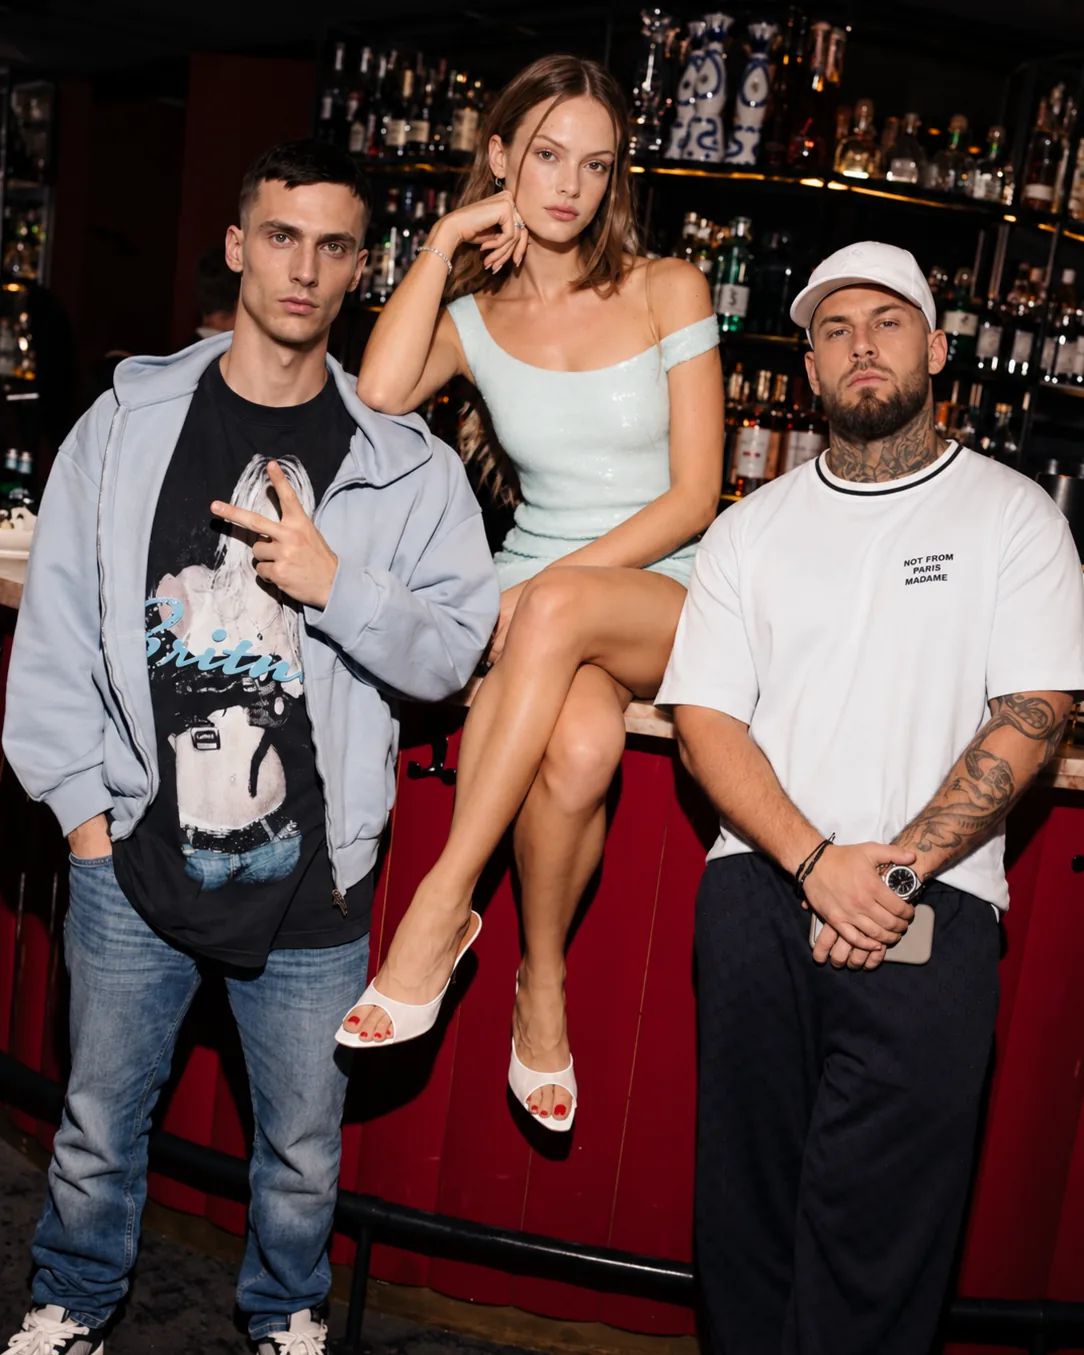
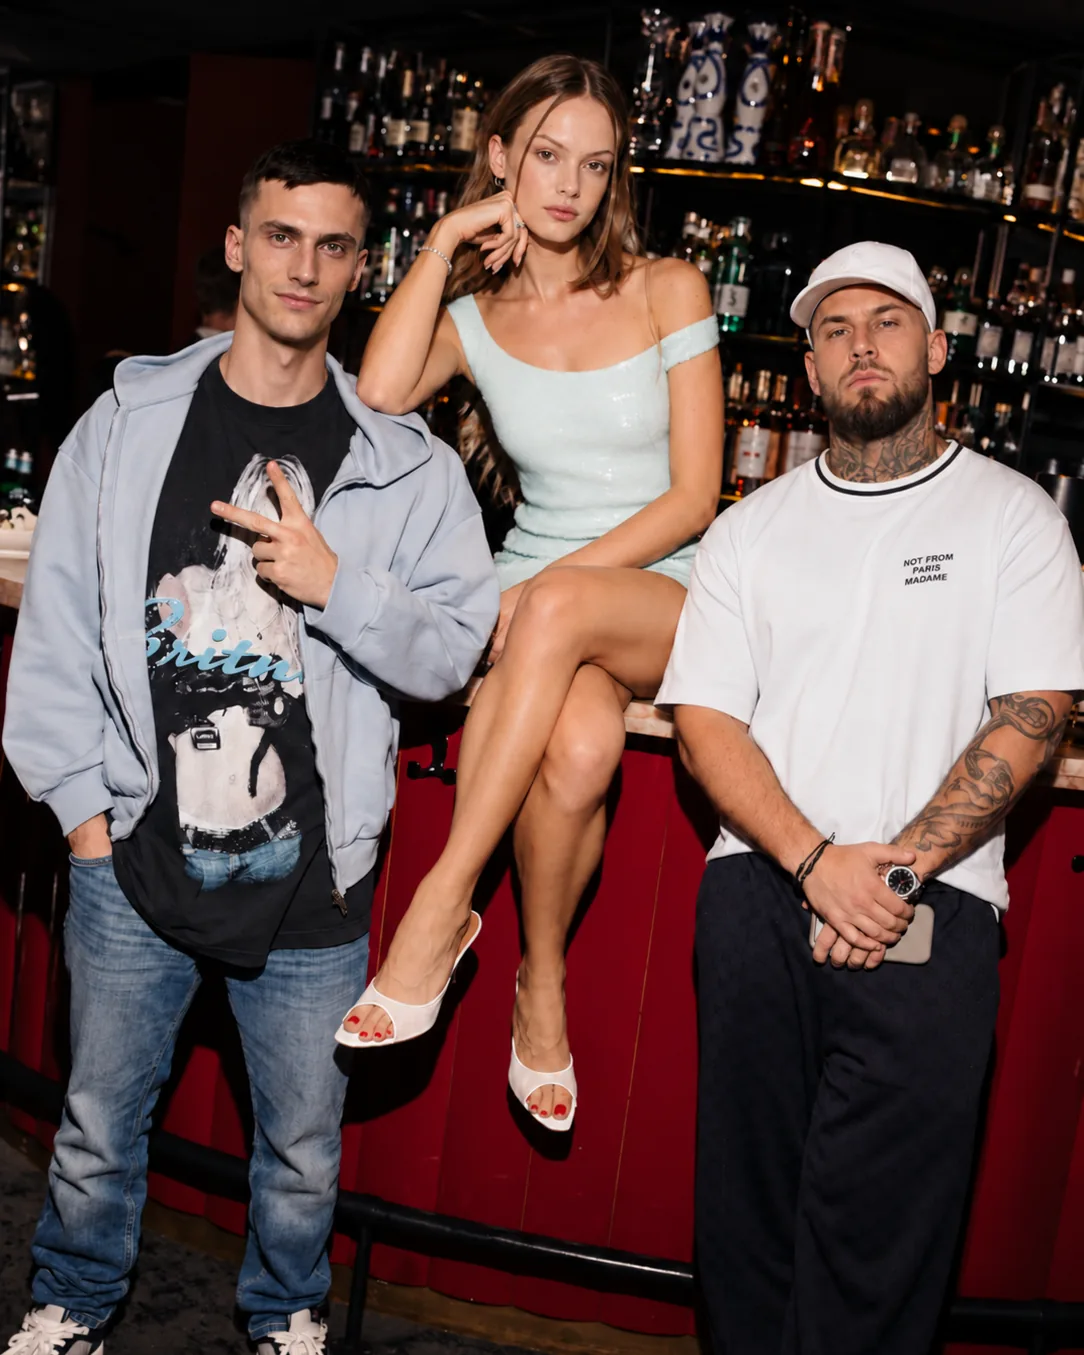
Whop test page: new team group photo, drop name caption

diff --git a/whop.html b/whop.html
@@ -2726,8 +2726,7 @@
 
   <div class="tm-hero">
     <figure class="tm-group reveal">
-      <img src="assets/img/team/team.webp" alt="The MomentoCrypto team: Alex, Mily and Max" width="1084" height="1355" loading="lazy">
-      <figcaption>Alex &middot; Mily &middot; Max</figcaption>
+      <img src="assets/img/team/team.webp?v=2" alt="The MomentoCrypto team: Alex, Mily and Max" width="1084" height="1355" loading="lazy">
     </figure>
     <div class="tm-story reveal">
       <div class="tm-kicker">Who&rsquo;s behind MomentoCrypto</div>
